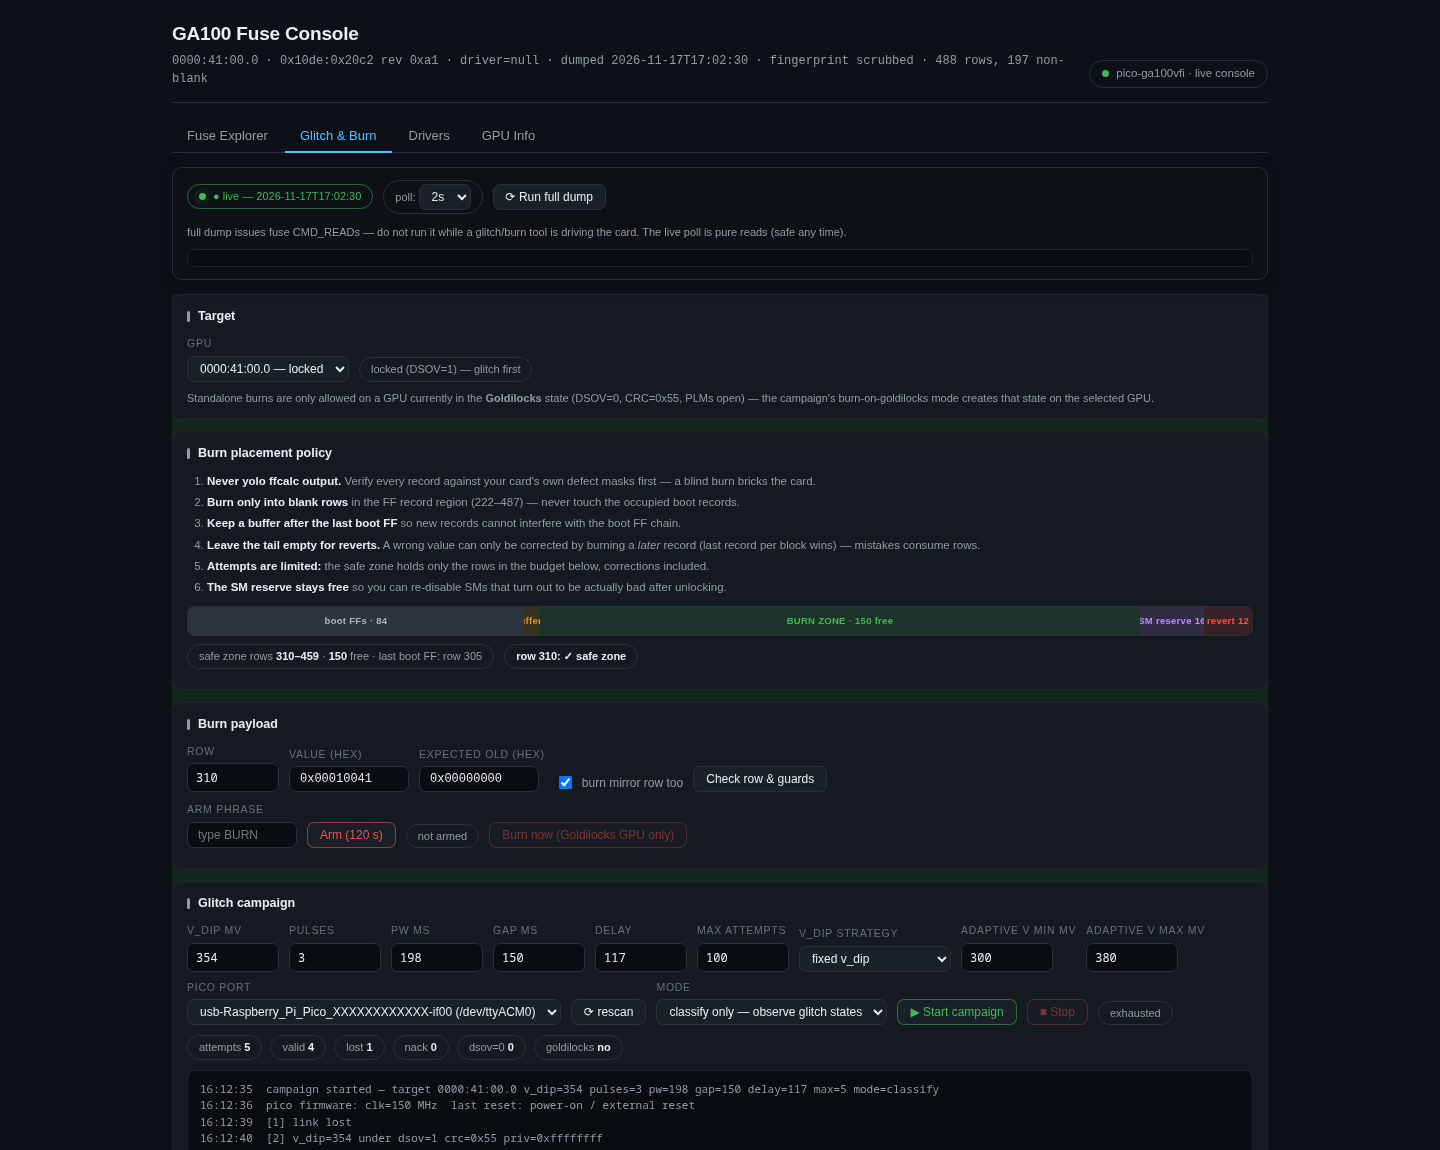
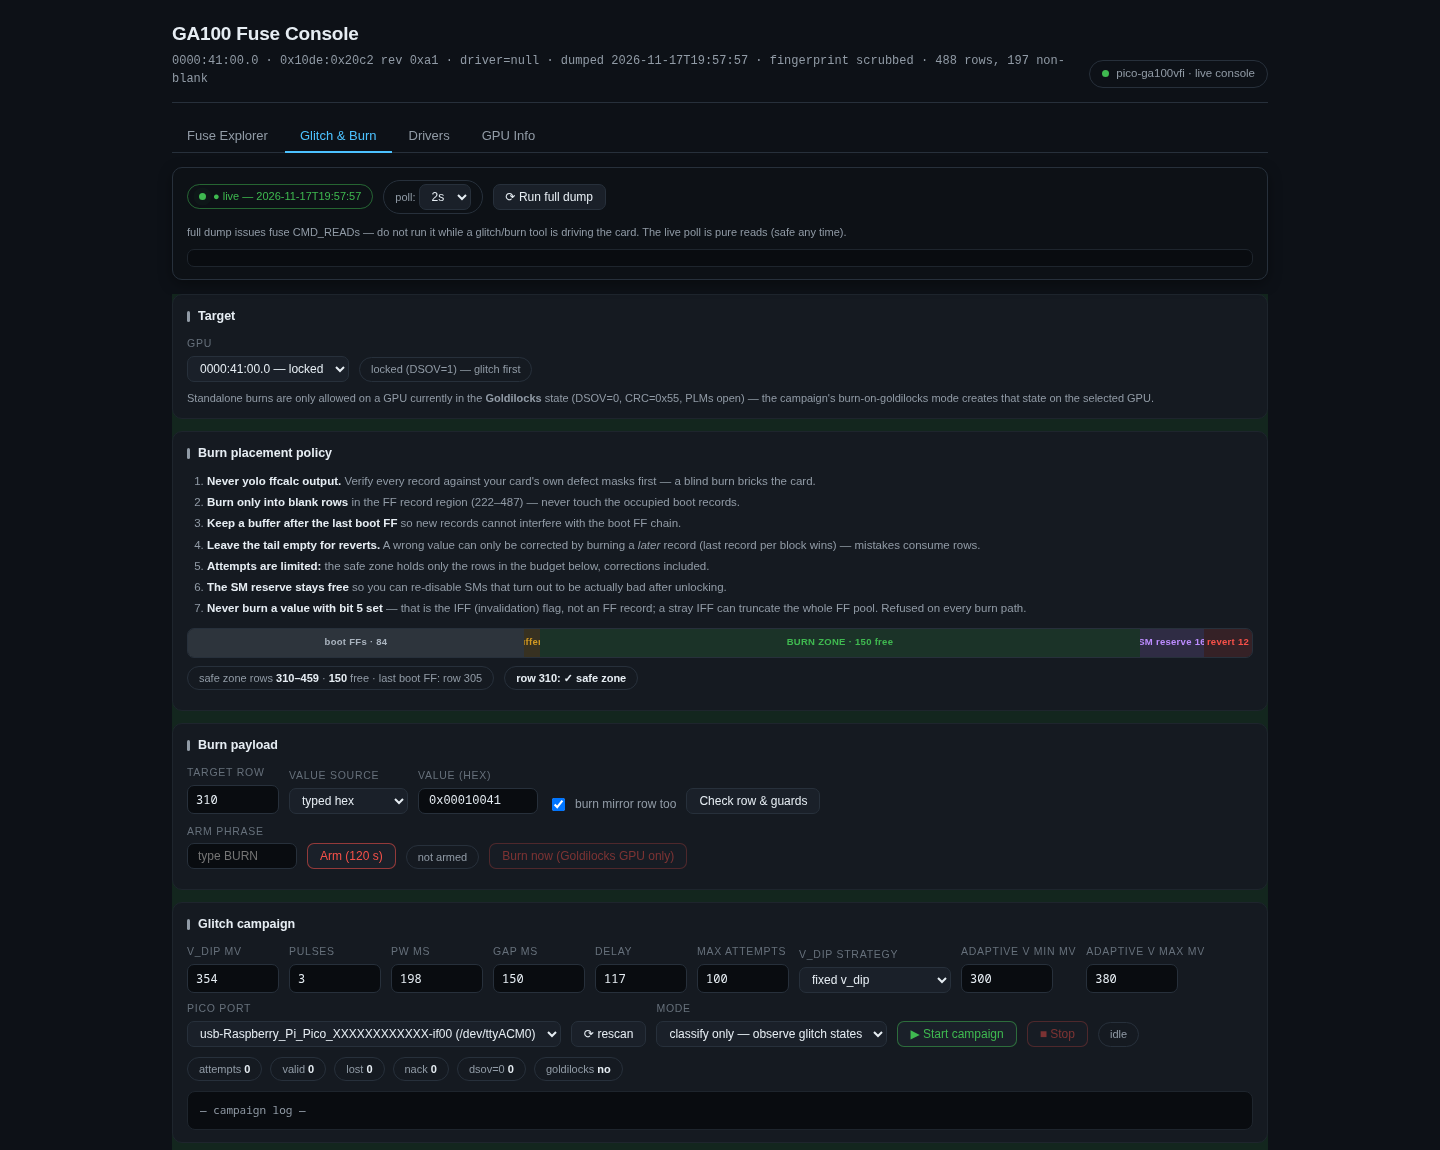
docs: complete the dump-row value-grab documentation (bf63051 follow-up)
The feature commit updated workflow 4 but left the rest stale, against
AGENTS.md's no-stale-statements rule:

  * Glitch & Burn tab tour: document the value source selector
    (typed hex / from dump row), the decoded verification line, and the
    blank/missing-row warnings
  * Reading-the-UI indicator table: new 'value source decode' row
  * README feature list: burn values can be grabbed from a dump row and
    are shown decoded, so hex never has to be hand-typed
  * Glitch & Burn screenshot re-captured from the live console — the
    old one showed the pre-selector form (typed hex + expected-old
    inputs). Captured through the scrubbing proxy as before: card
    serial, pico by-id serial and dump fingerprint blanked; the
    rendered DOM was grepped clean before committing.

Changed region(s): [[0.125, 0.5174, 0.875, 1.0]]

diff --git a/docs/CONSOLE.md b/docs/CONSOLE.md
@@ -82,6 +82,13 @@ Below it: the **burn placement policy** (rules + a live row map of the FF
 region + the remaining burn budget), the **burn payload** form, and the
 **campaign** controls. See the workflows below for the full sequence.
 
+The burn payload form has a **value source** selector: *typed hex*, or
+*from dump row* — enter the row of an existing record and the console
+grabs its value from the loaded dump and shows it decoded
+(`FF ch·blk·data`, known block names, IFF flagged) for verification, so
+burn values never have to be typed by hand. Blank or missing source rows
+warn instead of proposing a burn of zero.
+
 ![Glitch & Burn tab](../images/console-glitch-burn.png)
 
 ### Drivers
@@ -201,6 +208,7 @@ shows the safe zone, and the row input auto-snaps into it with a ✓/✗ hint.
 | target GPU pill | `● Goldilocks — burn window open` · `locked (DSOV=1) — glitch first` · `⚠ unreadable` |
 | serial pill | `SN <serial> · driver <name>` — identifies the physical card |
 | row hint | `✓ safe zone` · `✗ occupied (boot FF)` · `✗ buffer zone` · `✗ SM reserve` · `✗ revert tail` |
+| value source decode | `dump row N → 0x…` + decoded `FF ch·blk·data` (with block names) — verify before Check · blank/missing rows warn · IFF records flagged |
 | budget pill | safe zone rows, free count, last boot FF row |
 | arm pill | `● armed Ns` (countdown) · `not armed` · red = rejected phrase |
 | Burn now button | enabled only when armed **and** the selected GPU is currently Goldilocks |

diff --git a/README.md b/README.md
@@ -37,6 +37,9 @@ sudo python3 -m ga100vfi console --port 8790
 - Four tabs: **Fuse Explorer** (pure-read live poll with a change feed, full
   488-row dumps, GPC/FBP topology, FF-record decode), **Glitch & Burn**,
   **Drivers**, **GPU Info**
+- Burn values can be typed **or grabbed from a dump row** — the console
+  shows the record decoded (`chain/block/data`, known block names) for
+  verification, so hex never has to be hand-typed
 - Burns are gated behind a typed arm phrase, pure 0→1 payload checks,
   row-state matching, the Goldilocks guard chain, and a hard FF placement
   policy (boot-FF buffer, SM re-disable reserve, revert tail) — all
